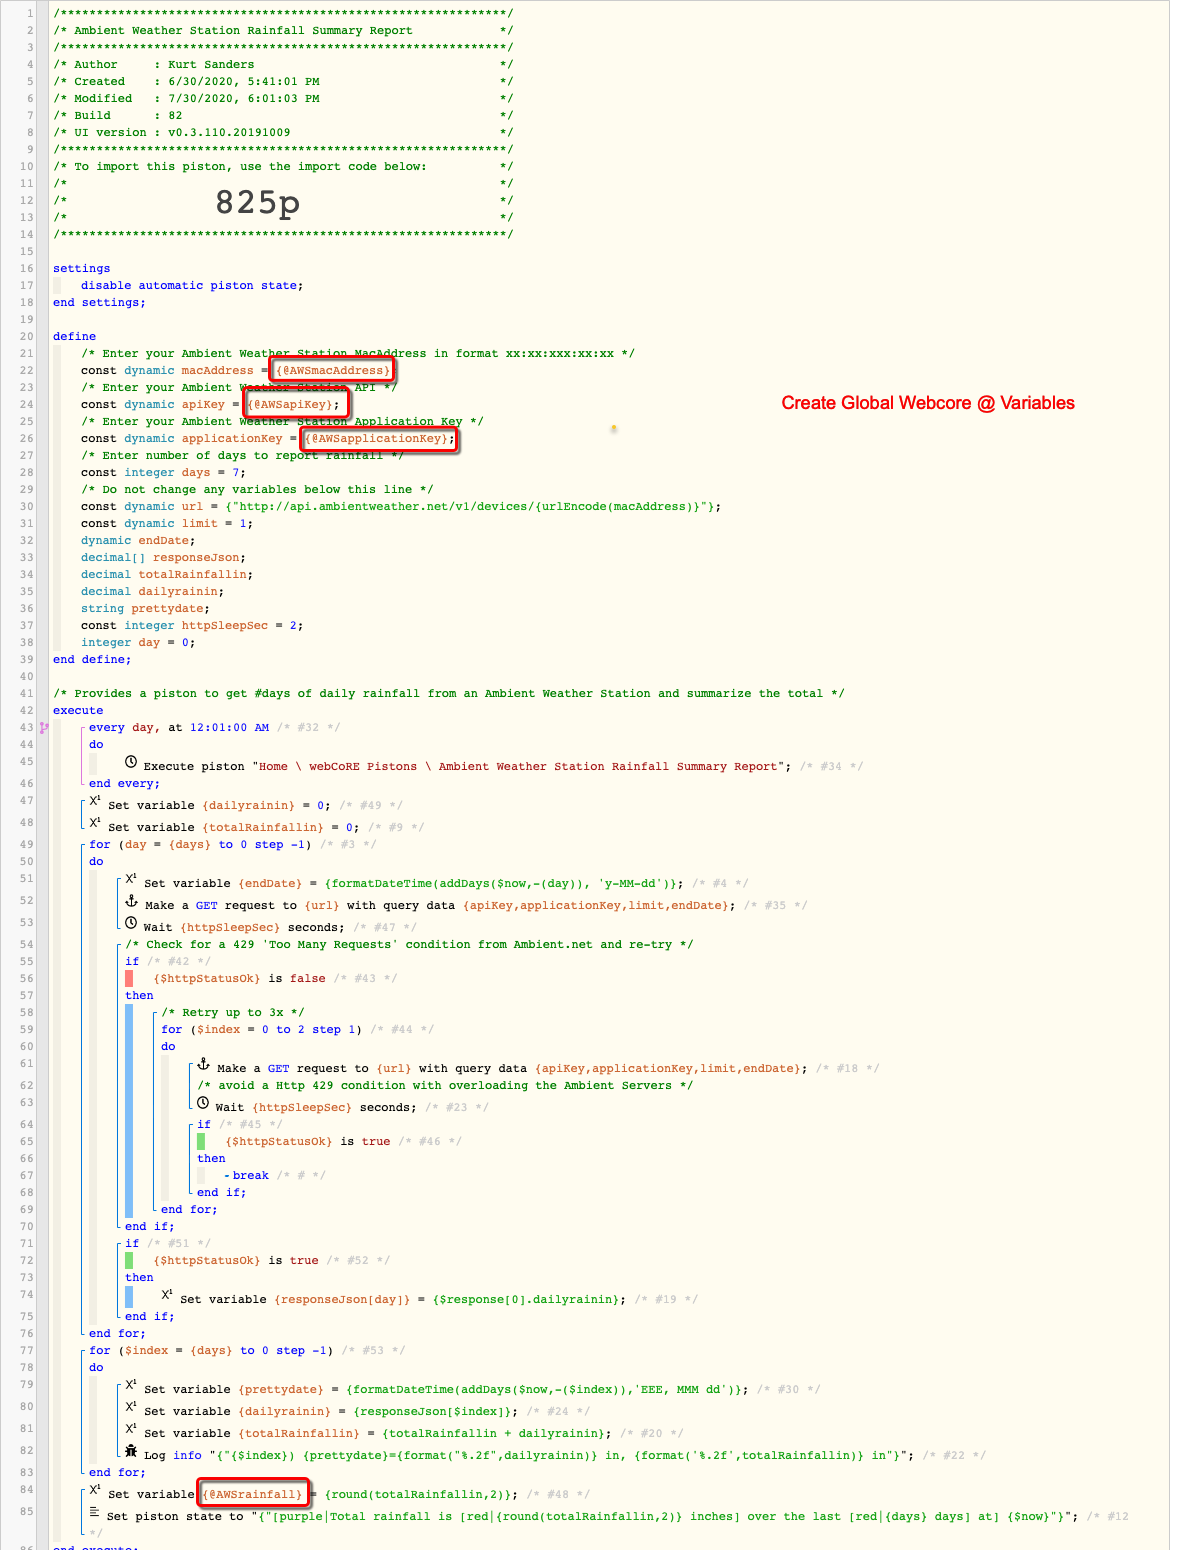
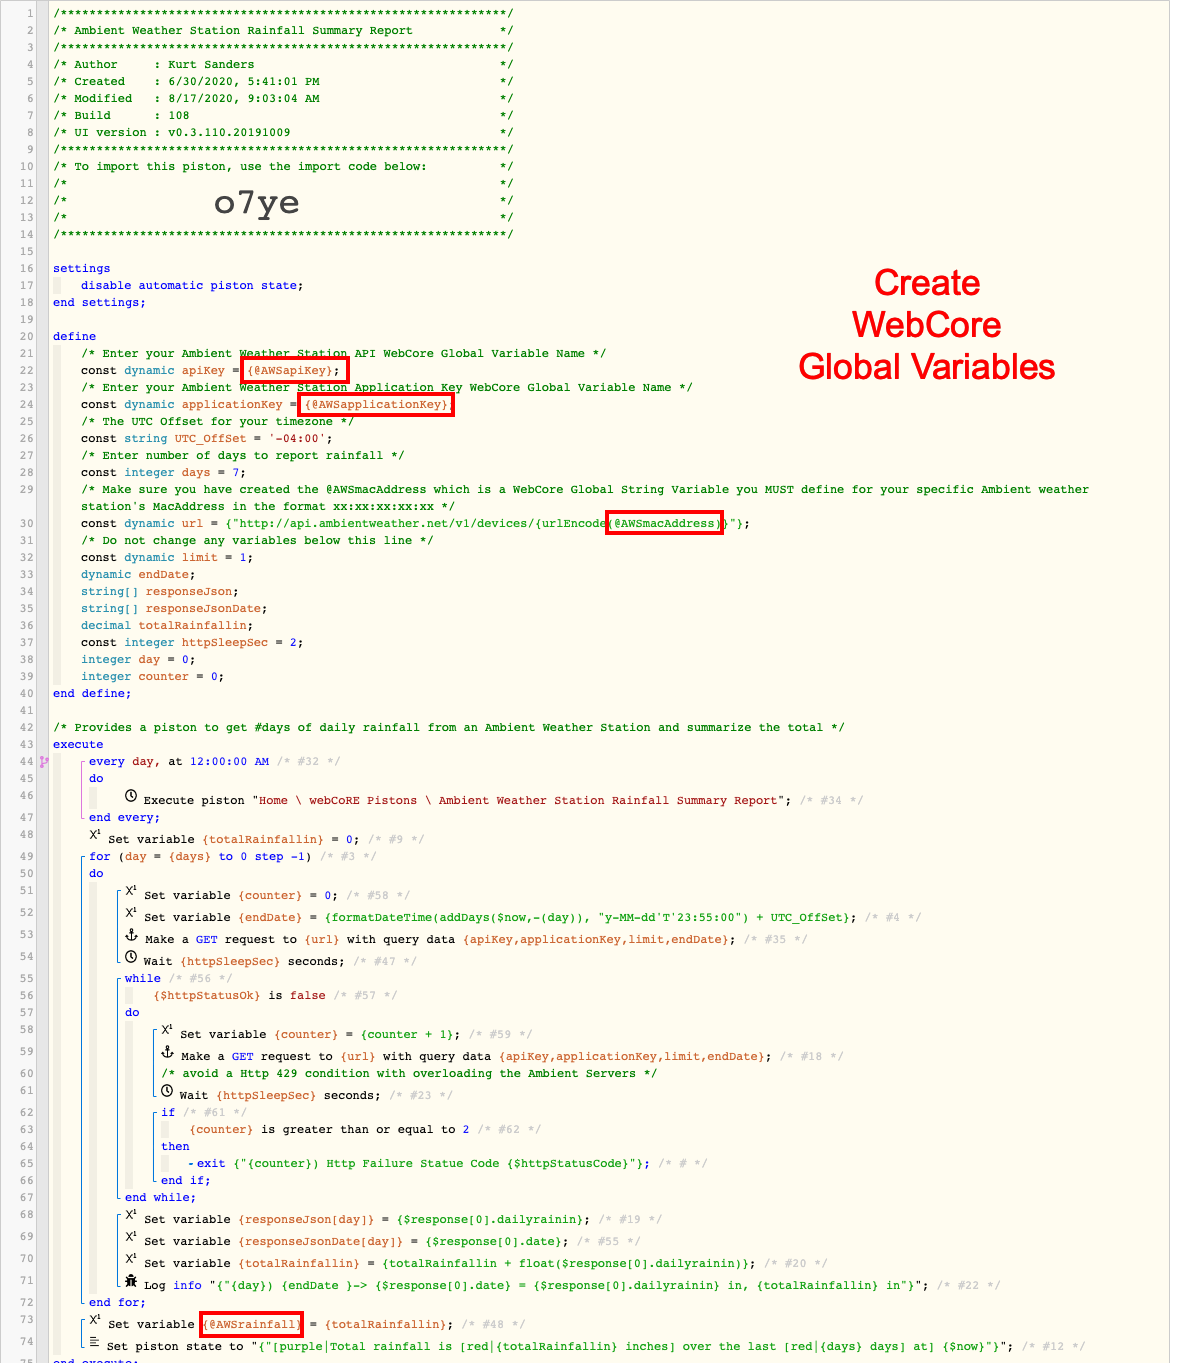
Updated WebCore Piston Code for 7 Day Rainfall

diff --git a/README.md b/README.md
@@ -242,7 +242,7 @@ Here is a WebCore piston that will collect one's daily reported rainfall [Ambien
 * Create a new WebCore pistons that reads the [WebCore's global '@AWSrainfall' variable](https://wiki.webcore.co/Variable#Variable_scopes) and performs needed actions.
 
 ### Configuration
-1. Create a new WebCore Piston from the backup code  **'825p'**
+1. Create a new WebCore Piston from the backup code  '**07ye**'
 2. Enter your AWS macAddress, apiKey string and AWS applicationKey into the predefined [local WebCore variables](https://wiki.webcore.co/Variable#Variable_scopes) at the top of the WebCore piston.  
    * I have chosen to [create new global variables](https://wiki.webcore.co/Variable#Variable_scopes) in this shared public piston to store these same AWS private data keys, but you can choose to enter your private strings directly into the WebCore local variables as well depending on your personal preference. 
 3. Enter an integer for the number of days to summarize your AWS daily rainfall, ie '7' for 7 days from yesterday.
